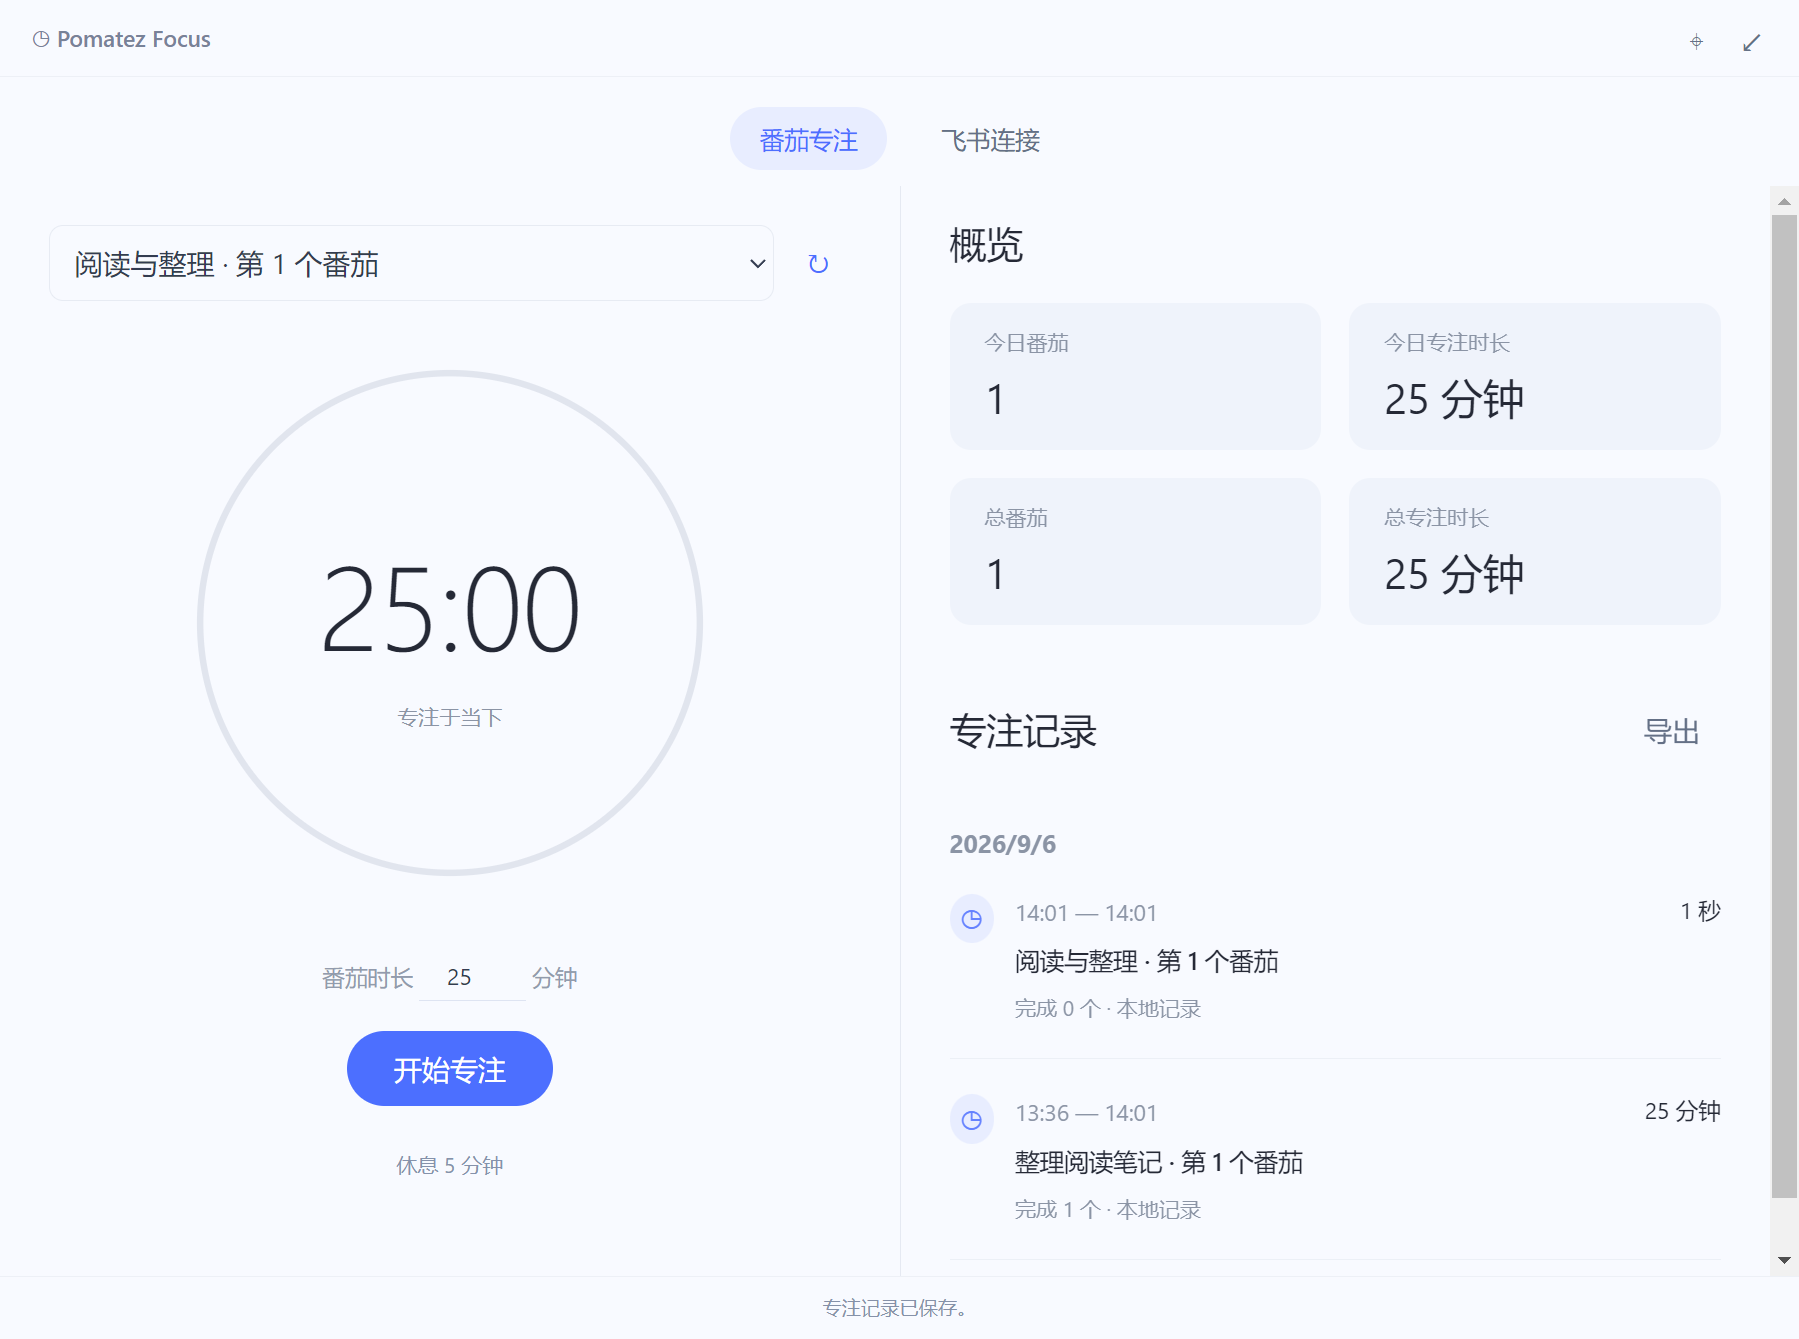
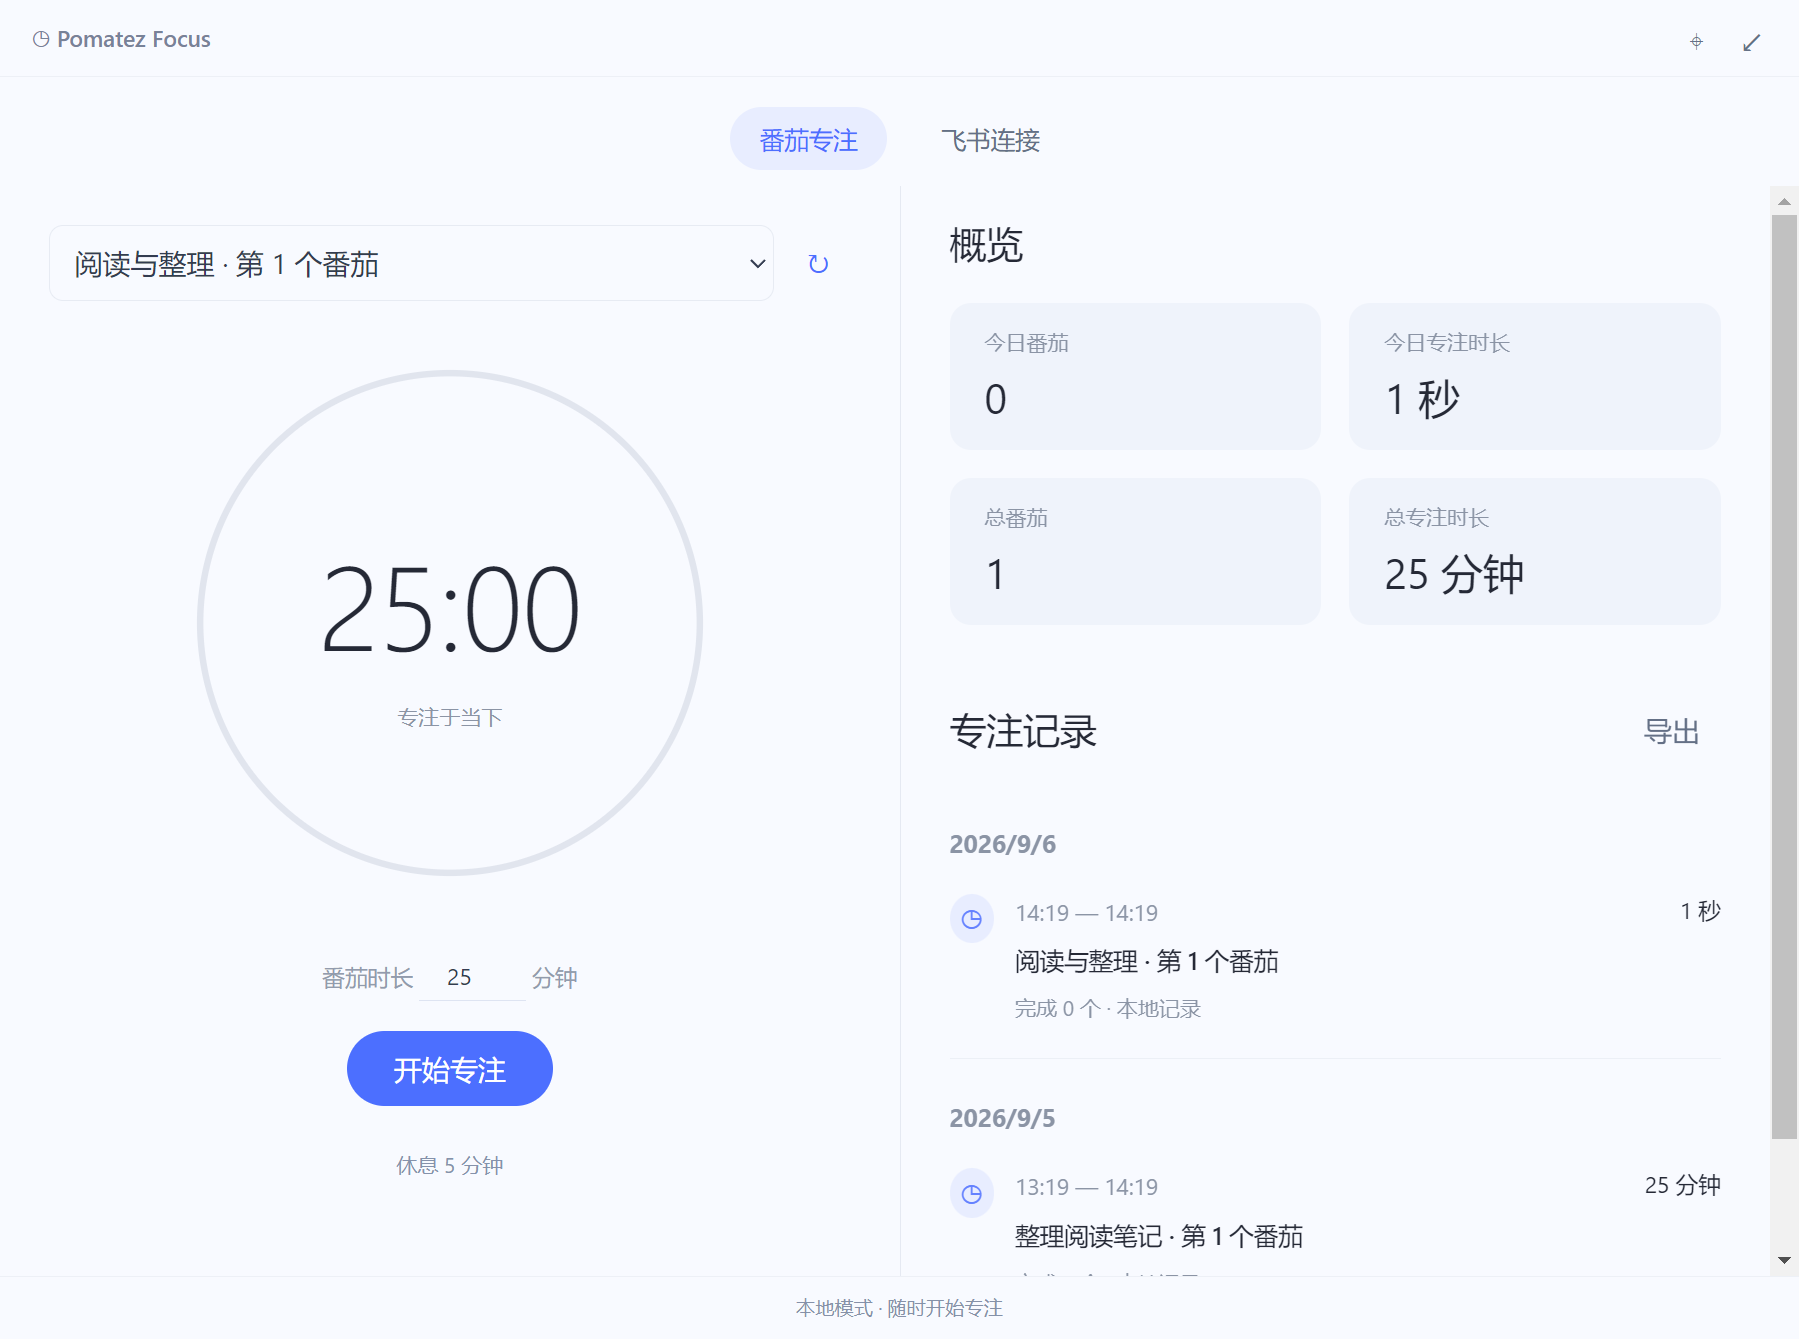
fix(p0-pomo-001): limit topmost to compact mode and use supported Windows level
Task-ID: P0-POMO-001
Agent-ID: /root
Checkpoint: true
Learning-Review: none - module policy fix uses documented APIs; Snipaste causal chain is not fully reproduced and is not a validated general lesson
Validation: Production build, 13 logic/API tests, 21 real hidden desktop checks and process restart passed
Validation: Expanded topmost suppression, compact pin toggles, native state after reload and no focus/show calls verified
Validation: Windows portable launch exited zero; archive private-path and exact MIT license checks passed
Validation: Real Snipaste capture and taskbar click chain remains user live acceptance, explicitly documented
Evidence: docs/ACCEPTANCE.md
Evidence: tests/desktop.cjs
Evidence: docs/CHANGELOG-FOCUS.md

diff --git a/app/renderer/src/focus/FocusApp.tsx b/app/renderer/src/focus/FocusApp.tsx
@@ -41,7 +41,7 @@ export default function FocusApp() {
     [selected, setSelected] = useState(demo[0].id);
   const [minutes, setMinutes] = useState(25),
     [compact, setCompact] = useState(false),
-    [pinned, setPinned] = useState(true);
+    [pinned, setPinned] = useState(false);
   const [tab, setTab] = useState("timer"),
     [connected, setConnected] = useState(false),
     [message, setMessage] = useState("");
@@ -107,14 +107,20 @@ export default function FocusApp() {
   };
   useEffect(() => {
     run(refresh);
+    api()
+      ?.windowState()
+      .then((state: { compact: boolean; pinned: boolean }) => {
+        setCompact(state.compact);
+        setPinned(state.pinned);
+      })
+      .catch(() => setMessage("无法读取窗口状态，请重试切换小窗。"));
   }, []); // One read at launch; subsequent refreshes are explicit.
   useEffect(() => {
     if (active?.status === "review") {
       setAccepted((Math.floor(timeParts(active).base) / 60).toFixed(2));
       setCompleted(0);
       setTab("timer");
-      setCompact(false);
-      api()?.windowMode({ compact: false, pinned });
+      windowMode(false, false);
     }
     // Initialize once when entering review; elapsed/pin renders must not reset the user's edits.
     // eslint-disable-next-line react-hooks/exhaustive-deps
@@ -140,10 +146,18 @@ export default function FocusApp() {
     if (pendingIds && connected) sync();
     // eslint-disable-next-line react-hooks/exhaustive-deps
   }, [pendingIds, connected]);
-  const windowMode = (small: boolean, pin: boolean) => {
-    setCompact(small);
-    setPinned(pin);
-    api()?.windowMode({ compact: small, pinned: pin });
+  const windowMode = async (small: boolean, pin: boolean) => {
+    try {
+      const state = api()
+        ? await api().windowMode({ compact: small, pinned: pin })
+        : { compact: small, pinned: small && pin };
+      setCompact(state.compact);
+      setPinned(state.pinned);
+      if (small && pin && !state.pinned)
+        setMessage("置顶未生效，可点击置顶按钮重试。");
+    } catch {
+      setMessage("窗口切换未完成，请重试。");
+    }
   };
   const exportRecords = () => {
     const blob = new Blob(
@@ -217,18 +231,24 @@ export default function FocusApp() {
         </span>
         <div>
           <button
-            title={pinned ? "取消置顶" : "置顶"}
+            title={
+              !compact
+                ? "切换为置顶小窗"
+                : pinned
+                ? "取消置顶"
+                : "置顶小窗"
+            }
             aria-label="置顶"
             aria-pressed={pinned}
             className={pinned ? "selected" : ""}
-            onClick={() => windowMode(compact, !pinned)}
+            onClick={() => windowMode(true, !pinned)}
           >
             ⌖
           </button>
           <button
             title={compact ? "展开" : "小窗"}
             aria-label="切换小窗"
-            onClick={() => windowMode(!compact, pinned)}
+            onClick={() => windowMode(!compact, !compact)}
           >
             {compact ? "↗" : "↙"}
           </button>

diff --git a/app/electron/src/main.ts b/app/electron/src/main.ts
@@ -67,7 +67,7 @@ else {
         minimizable: true,
         show: false,
         frame: true,
-        alwaysOnTop: true,
+        alwaysOnTop: false,
         backgroundColor: "#f8faff",
         icon: path.join(__dirname, "assets/logo-dark.ico"),
         webPreferences: {
@@ -104,13 +104,21 @@ else {
       handler("today", () => service.today());
       handler("setup", () => service.setup());
       handler("sync", (value) => service.sync(value));
+      handler("windowState", () => ({
+        compact: compactMode,
+        pinned: win!.isAlwaysOnTop(),
+      }));
       handler("windowMode", (value) => {
         if (
           typeof value?.compact !== "boolean" ||
           typeof value?.pinned !== "boolean"
         )
           throw new Error("Invalid window mode");
-        win!.setAlwaysOnTop(value.pinned);
+        // Expanded windows must yield to other applications. On Windows the
+        // default floating level is repositioned behind the taskbar on focus;
+        // use the documented non-taskbar-relative level for the compact timer.
+        const shouldPin = value.compact && value.pinned;
+        if (!shouldPin) win!.setAlwaysOnTop(false);
         if (value.compact !== compactMode) {
           if (value.compact) {
             expandedBounds = win!.getNormalBounds();
@@ -129,6 +137,11 @@ else {
           }
           compactMode = value.compact;
         }
+        if (shouldPin)
+          win!.setAlwaysOnTop(
+            true,
+            process.platform === "win32" ? "pop-up-menu" : "floating"
+          );
         return { compact: value.compact, pinned: win!.isAlwaysOnTop() };
       });
       handler("minimize", () => {

diff --git a/app/electron/src/preload.ts b/app/electron/src/preload.ts
@@ -11,6 +11,7 @@ contextBridge.exposeInMainWorld("focusApi", {
   setup: () => invoke("setup"),
   sync: (value: any) => invoke("sync", value),
   windowMode: (value: any) => invoke("windowMode", value),
+  windowState: () => invoke("windowState"),
   minimize: () => invoke("minimize"),
   hide: () => invoke("hide"),
   remind: () => invoke("remind"),

diff --git a/docs/P0-POMO-001.md b/docs/P0-POMO-001.md
@@ -35,6 +35,15 @@ Rollback: close the fork, retain/export local records, restore the previous loca
 
 ## Current checkpoint
 
+### Screenshot/topmost repair (2026-09-06)
+
+- Role/task: isolated module implementer and card owner / P0-POMO-001; baseline 025a317a3de5e96e9aaeb12c0795b12be71c04b6 on task/p0-pomo-001-desktop, clean at entry. User identified Snipaste and explicitly requested research then repair. Scope: app window policy, narrow window IPC/UI state, tests and preview docs/package version; no timer/Feishu/credentials/schema changes. Existing user process stays untouched. Zero subagents, no background monitor, one build/test per purpose, one active work session. Same native root failure after a product patch stops local patching and returns to full-chain diagnosis.
+- Four sources: (1) current main.ts starts both expanded and compact windows alwaysOnTop=true; renderer sets pinned=true and ignores the native IPC return value; previous minimal frame=false/true controls both failed native topmost in the affected desktop session, then both passed without product changes; (2) fixed Electron 34.5.8 docs/api/base-window.md:806–836 and shell/browser/native_window_views.cc:1006–1030,1541–1550,1701–1708; Microsoft SetWindowPos remarks on topmost/non-topmost ordering; (3) existing windowMode bridge, hidden native probe, desktop/restart tests and commit helpers reused; previous targeted Learning search has no matching lesson; (4) latest 19 desktop checks and process restart passed after the desktop state recovered, including the strengthened cross-date totals assertion. No claim that those tests reproduce Snipaste.
+- T0 classification: expanded-window occlusion is a confirmed policy defect, not failure to launch other apps. Snipaste 2.11.300.0 Store package is present. Its screenshot-to-demotion chain is user-reported, not captured in an automated live reproduction. The fixed Electron default `floating` path calls SetWindowPos behind Shell_TrayWnd on pin/focus; upstream electron/electron#28052 reports demotion with Zoom screen sharing on Electron 13 and identifies this same path, but differs in app/version. Hypothesis: taskbar-relative placement explains intermittent native demotion; no assertion that Snipaste itself has a bug. Snipaste current official FAQ/CLI wiki is read only, not a version-matched implementation source; no Snipaste configuration or executable changes are authorized here.
+- Official first repair: use a normal non-topmost expanded window; apply documented `pop-up-menu` level only to user-enabled compact mode, avoiding taskbar-relative placement. Main process normalizes expanded pinned=false and reports actual native state to the UI. The pin action in expanded mode enters the small window. Keep foreground focus unchanged when pin/mode changes. No native dependency, polling, forced refocus loop, or Snipaste interception. Cost is one existing policy/IPC edit versus a new OS hook/scheduler with larger maintenance and capture interference; choose the public API adaptation.
+- Paired acceptance: expanded view never keeps topmost even when IPC requests it, while compact can pin/unpin/re-pin; pin/mode changes do not call focus/show or change active sessions; native return and button state agree after reload; timer/review/discard/sync regressions remain pass. Hidden tests cover real Electron main/preload/renderer and second ordinary hidden window. Actual Snipaste capture/taskbar switching remains user live acceptance: capture may cover the timer temporarily, completion must leave pin preference usable; expanded must yield normally to another app, compact must not steal keyboard focus. Do not call hidden tests proof of that complete real interaction.
+- Rollback: retain preview.2 and local data; restore previous code/binary if the compact level interferes with Snipaste or taskbar. Links and evidence details go in ACCEPTANCE.md. No root shared-state edits. Learning disposition required at commit.
+
 ### Preview feedback revision (2026-09-06)
 
 - Role: isolated module implementer / module card owner, P0-POMO-001. Baseline and coordination ref: ed345b726b09c48028dfaf29915ea0d6c644015d / task/p0-pomo-001-desktop; clean before edits, other clean detached checkout has no overlapping writer.

diff --git a/docs/ACCEPTANCE.md b/docs/ACCEPTANCE.md
@@ -1,6 +1,19 @@
-# 0.1.0-preview.2 验证范围
+# 0.1.0-preview.3 验证范围
 
-## 本次体验反馈修订
+## 置顶与应用切换修订
+
+四处预检、故障分类、范围、停止线与回滚见 [模块执行卡](P0-POMO-001.md#screenshottopmost-repair-2026-09-06)。
+
+- 已验证：生产构建、13 项逻辑/API 回归、21 项隐藏 Electron 桌面检查和真实进程重启通过。实际 main/preload/renderer 验证展开态为非置顶，显式请求 expanded+pinned 仍返回 pinned=false；普通对照窗口同为非置顶。紧凑态可置顶、取消和重新置顶；返回展开释放置顶。没有调用 focus/show/showInactive，没有可见测试窗口。
+- 已验证：小窗重载读取原生 compact/pinned 状态；保留前次尺寸；今日与历史跨日期汇总正确；确认、放弃、保存、导出和暂停恢复继续通过。
+- 已验证：preview.3 Windows portable 打包通过，实际便携启动链在独立隐藏配置中退出码为 0；归档私人路径检查为 0，内置上游 MIT 许可证逐字节一致。便携文件 SHA-256：517fbf9408f1ec86b78643b9942f010eb1e7208cc57ef364a50939df0d199379。
+- 已确认原因：旧版大窗口默认置顶会遮住其他普通窗口。与启动应用失败不同，本次从应用窗口策略修复。
+- 部分确认：Electron 34.5.8 默认 floating 将窗口排在任务栏之后，并在重新激活时重做此定位；改用官方 pop-up-menu 可绕开这条路径。此前 native frame=false/true 对照都曾在同一桌面会话无法置顶，随后未改代码即恢复并通过 19 项旧版复测。真实 Snipaste 2.11.300.0 Store 包的截图进入/退出链未自动复现，不能把屏幕共享的同类案例当成本机已修复证明。
+- 上游证据：[固定版本置顶文档](https://github.com/electron/electron/blob/v34.5.8/docs/api/base-window.md#winsetalwaysontopflag-level-relativelevel)、[固定版本窗口实现](https://github.com/electron/electron/blob/v34.5.8/shell/browser/native_window_views.cc#L1701)、[Windows 屏幕共享后丢失置顶案例](https://github.com/electron/electron/issues/28052)、[Microsoft SetWindowPos](https://learn.microsoft.com/en-us/windows/win32/api/winuser/nf-winuser-setwindowpos)。Snipaste FAQ/CLI 官方 wiki 为当前说明，不是 2.11.300.0 的固定实现源码；本次不调用截图命令、不改 Snipaste 配置、不采集用户桌面。
+- 待实际体验：在展开态从任务栏切换其他应用；在置顶小窗中开始/退出 Snipaste 截图后确认小窗仍可保持置顶、Snipaste 可正常操作且键盘焦点不被抢走。pop-up-menu 在 Windows 上高于任务栏，故只用于小窗；小窗若被人为拖到任务栏上可局部遮挡，取消置顶或移动即可。
+- Learning-Review: none — 现有官方 API 的本模块策略修正；Snipaste 因果链尚未本机完整验证，不作为已验证通用工程教训。
+
+## preview.2 体验反馈修订（历史验证）
 
 四处预检、基线、范围与回滚见 [模块执行卡](P0-POMO-001.md#preview-feedback-revision-2026-09-06)。
 

diff --git a/README.md b/README.md
@@ -2,7 +2,7 @@
 
 一个可置顶的桌面番茄小窗，连接飞书里的今日番茄计划。基于 [Pomatez](https://github.com/zidoro/pomatez) v1.11.0 薄改，采用熟悉的圆形计时与浅色界面。
 
-**当前版本：0.1.0-preview.2 · Windows x64 预览版。** 桌面计时与飞书记录同步已验证；飞书看板的图表需要按说明在飞书界面配置。尚未完成独立用户体验验收，不作为稳定版发布。
+**当前版本：0.1.0-preview.3 · Windows x64 预览版。** 桌面计时与飞书记录同步已验证；飞书看板的图表需要按说明在飞书界面配置。尚未完成独立用户体验验收，不作为稳定版发布。
 
 <img src="docs/images/desktop.png" alt="Pomatez Focus 桌面界面，使用演示任务" width="900" />
 
@@ -15,7 +15,7 @@
 
 不认可这次专注时，点击确认页的“放弃本次记录”：不保存、不计入统计，也不同步到飞书。此入口只放弃尚未保存的这次专注，不删除历史记录。
 
-展开界面左侧计时，右侧同时显示今日／累计番茄、专注时长和按日期分组的记录。窗口使用 Windows 原生最小化、最大化／还原和关闭控件；应用内保留置顶与小窗切换。
+展开界面左侧计时，右侧同时显示今日／累计番茄、专注时长和按日期分组的记录。窗口使用 Windows 原生最小化、最大化／还原和关闭控件。**展开窗口不置顶，点击任务栏可正常切换应用；点击置顶图标会进入置顶小窗。** 小窗可取消置顶，展开后自动解除置顶。置顶操作不主动抢键盘焦点。
 
 提前结束也能保存，例如做了 12 分钟就保留 12 分钟。暂停不计时。退出后恢复的会话处于暂停状态，关机期间不计时。休息由用户手动开始，单独计时，不计入专注记录。
 
@@ -53,6 +53,7 @@ node scripts/package-focus.cjs
 - 本版不会回写原计划的完成复选框；该复选框继续在飞书手动管理。
 - 飞书列表读取目前上限 50,000 条，不适合超大型 Base。看板组件尚需手动配置。
 - Windows 包未签名；当前只验证 Windows x64。保留的上游 Tauri/macOS/Linux 代码与工作流不代表本分支已支持对应平台。
+- Snipaste 截图后的置顶兼容修复已采用 Electron 官方窗口层级配置；隐藏测试不能证明真实截图覆盖层的完整交互，仍需用户实测。
 
 [验证范围](docs/ACCEPTANCE.md) · [修改记录](docs/CHANGELOG-FOCUS.md) · [上游来源](docs/UPSTREAM.md)
 

diff --git a/docs/CHANGELOG-FOCUS.md b/docs/CHANGELOG-FOCUS.md
@@ -1,5 +1,13 @@
 # Pomatez Focus 修改记录
 
+## 0.1.0-preview.3 — 2026-09-06
+
+- 展开窗口不再默认置顶，避免遮挡通过任务栏切换来的其他应用；仅小窗允许置顶。
+- Windows 小窗使用 Electron 官方 `pop-up-menu` 层级，避免默认 `floating` 路径在激活时重新依附任务栏层级；这是针对截图后丢失置顶的兼容修复候选，Snipaste 完整交互仍待用户实测。
+- 置顶按钮在展开状态下进入置顶小窗；展开时释放置顶。模式与置顶操作不主动 focus/show。
+- 按钮状态使用原生窗口的实际返回值，重载时读取当前窗口状态；置顶未生效会给出内联提示。
+- 13 项逻辑/API、21 项隐藏桌面检查与真实进程重启检查通过。
+
 ## 0.1.0-preview.2 — 2026-09-06
 
 - 确认页新增“放弃本次记录”，不保存、不统计、不产生飞书待同步项，保留已有历史。
